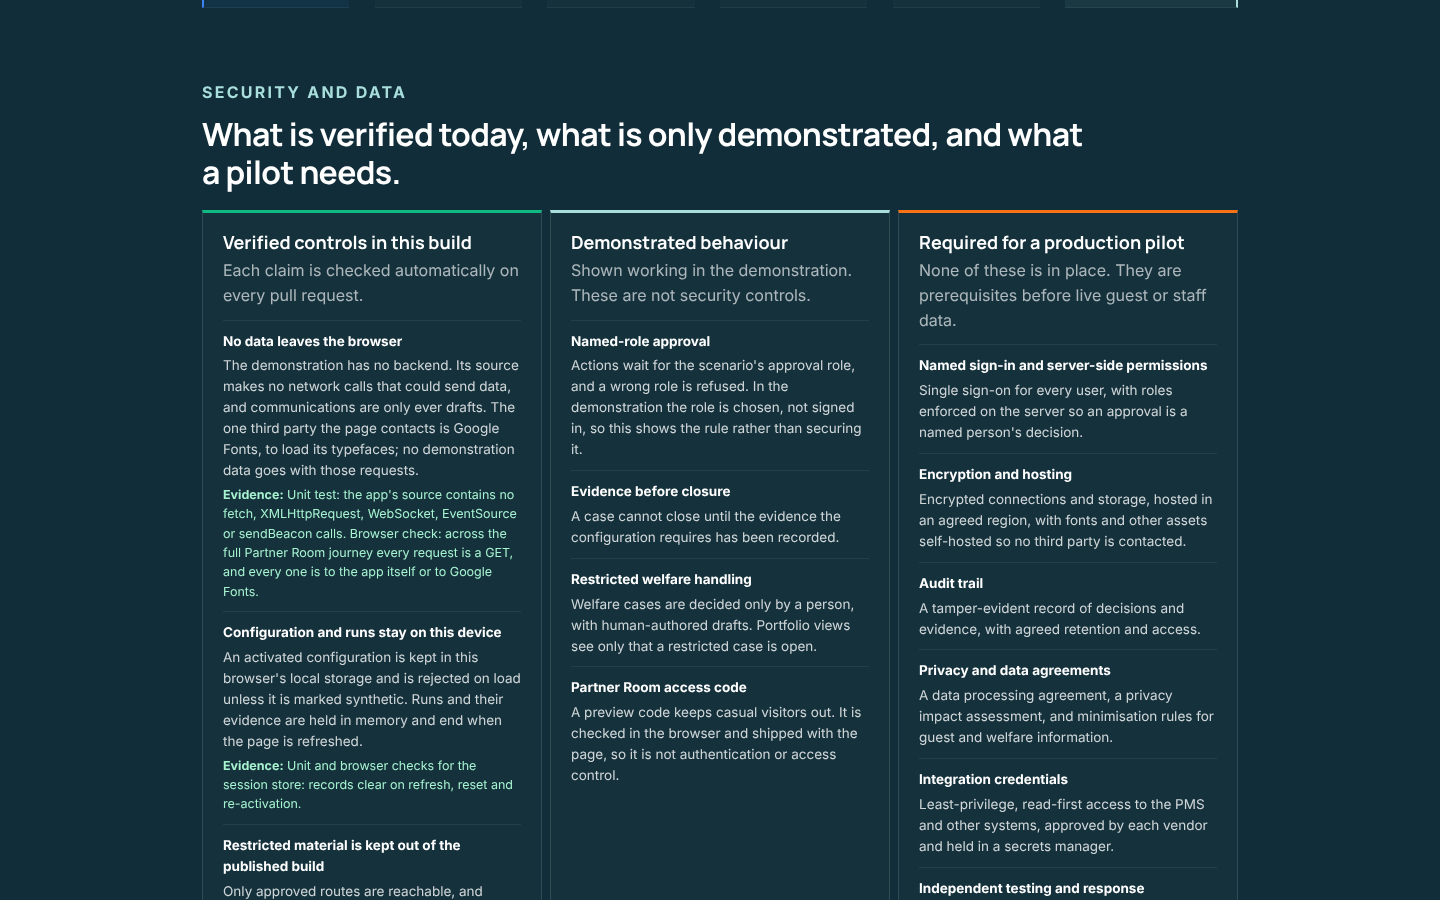
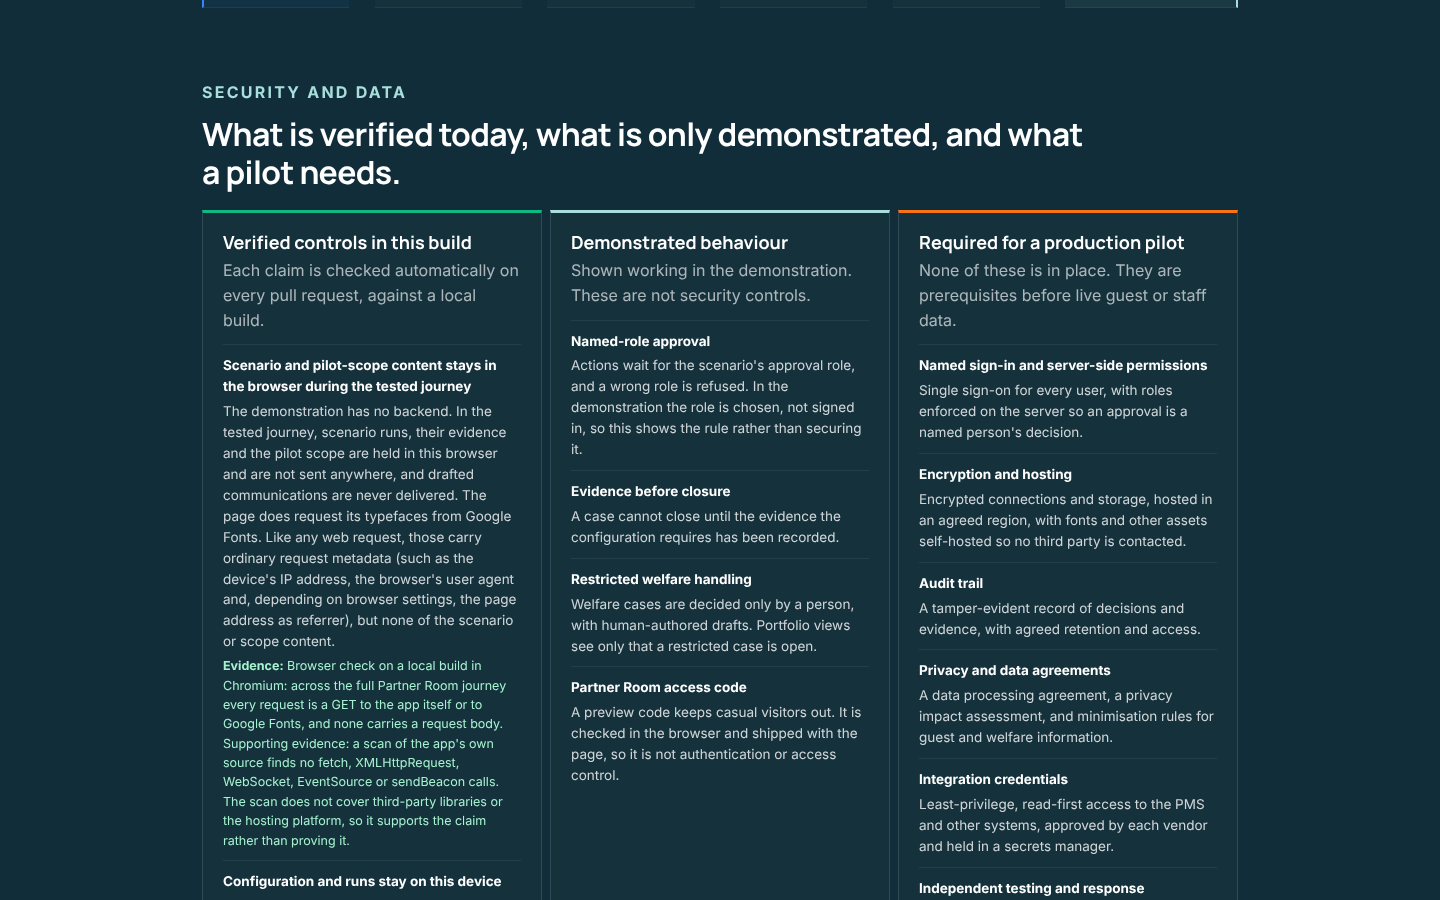
Scope the security claims to the tested journey and the local build
- Replace "No data leaves the browser" with "Scenario and pilot-scope
  content stays in the browser during the tested journey".
- Explain that Google Fonts requests carry ordinary request metadata (IP
  address, user agent, possibly the referring page) but no scenario or
  scope content; stop calling Google Fonts the only third party.
- Present the source scan as supporting evidence that does not cover
  third-party libraries or hosting.
- Add a "Local build, not the deployed site" note: the deployed Replit site
  has not been checked, and its third parties must be verified there.

Tests: unit test requires the scoped wording and caveats; the journey
browser check also asserts no request carries a body and that the page
separates local findings from the deployed site.

Claude-Session: https://claude.ai/code/session_01F5TpjzTwv9w8J8EexRookR

Changed region(s): [[0.1562, 0.3422, 0.375, 1.0], [0.25, 0.3111, 0.3438, 0.3422]]

diff --git a/artifacts/welbx/src/data/securityPosture.ts b/artifacts/welbx/src/data/securityPosture.ts
@@ -17,9 +17,9 @@ export interface SecurityItem {
 
 export const VERIFIED_CONTROLS: SecurityItem[] = [
   {
-    title: "No data leaves the browser",
-    detail: "The demonstration has no backend. Its source makes no network calls that could send data, and communications are only ever drafts. The one third party the page contacts is Google Fonts, to load its typefaces; no demonstration data goes with those requests.",
-    evidence: "Unit test: the app's source contains no fetch, XMLHttpRequest, WebSocket, EventSource or sendBeacon calls. Browser check: across the full Partner Room journey every request is a GET, and every one is to the app itself or to Google Fonts.",
+    title: "Scenario and pilot-scope content stays in the browser during the tested journey",
+    detail: "The demonstration has no backend. In the tested journey, scenario runs, their evidence and the pilot scope are held in this browser and are not sent anywhere, and drafted communications are never delivered. The page does request its typefaces from Google Fonts. Like any web request, those carry ordinary request metadata (such as the device's IP address, the browser's user agent and, depending on browser settings, the page address as referrer), but none of the scenario or scope content.",
+    evidence: "Browser check on a local build in Chromium: across the full Partner Room journey every request is a GET to the app itself or to Google Fonts, and none carries a request body. Supporting evidence: a scan of the app's own source finds no fetch, XMLHttpRequest, WebSocket, EventSource or sendBeacon calls. The scan does not cover third-party libraries or the hosting platform, so it supports the claim rather than proving it.",
   },
   {
     title: "Configuration and runs stay on this device",
@@ -60,6 +60,10 @@ export const PILOT_SECURITY_REQUIREMENTS: SecurityItem[] = [
   { title: "Integration credentials", detail: "Least-privilege, read-first access to the PMS and other systems, approved by each vendor and held in a secrets manager." },
   { title: "Independent testing and response", detail: "A penetration test before live data, an incident response plan with named contacts, backups and regular access reviews." },
 ];
+
+/** Where these findings come from, and what has not been checked. */
+export const VERIFICATION_SCOPE =
+  "These findings come from automated checks on a local build. The deployed Replit site has not been checked from this environment, so its hosting may add requests of its own (for example platform scripts or analytics). Third parties on the deployed site, including whether Google Fonts is the only one, must be verified there before any of these claims are repeated about it.";
 
 export const CERTIFICATION_STATEMENT =
   "This demonstration makes no certification claim (for example ISO 27001 or SOC 2), and none is evidenced here. Any certification the partner requires is a pilot prerequisite to agree.";

diff --git a/artifacts/welbx/src/__tests__/ux-phase4.test.ts b/artifacts/welbx/src/__tests__/ux-phase4.test.ts
@@ -5,7 +5,7 @@ import {
   PORTFOLIO_ACTORS, PORTFOLIO_EXCEPTIONS, PORTFOLIO_PROPERTIES, decideException, newExceptionRecord, pendingApprovers,
 } from "@/lib/portfolioCoordination";
 import {
-  CERTIFICATION_STATEMENT, DEMONSTRATED_BEHAVIOUR, PILOT_SECURITY_REQUIREMENTS, VERIFIED_CONTROLS,
+  CERTIFICATION_STATEMENT, DEMONSTRATED_BEHAVIOUR, PILOT_SECURITY_REQUIREMENTS, VERIFICATION_SCOPE, VERIFIED_CONTROLS,
 } from "@/data/securityPosture";
 import {
   ENQUIRY_ADDRESS, MAILTO_BODY_LIMIT, defaultPilotScope, integrationPrerequisites, pilotCommercialAssumptions,
@@ -72,7 +72,20 @@ describe("Security and data claims", () => {
     expect(claims).not.toMatch(/\b(certified|compliant|ISO ?27001|SOC ?2|GDPR[- ]compliant|PCI)\b/i);
   });
 
-  it("keeps the 'no data leaves the browser' claim true: the app's source makes no network calls", () => {
+  it("scopes the data claim to the tested journey and names what the evidence does not cover", () => {
+    const all = [...VERIFIED_CONTROLS, ...DEMONSTRATED_BEHAVIOUR, ...PILOT_SECURITY_REQUIREMENTS].map(i => `${i.title} ${i.detail} ${i.evidence ?? ""}`).join(" ");
+    expect(all).not.toMatch(/no data leaves|only third party/i);
+    const content = VERIFIED_CONTROLS[0];
+    expect(content.title).toMatch(/Scenario and pilot-scope content stays in the browser during the tested journey/);
+    expect(content.detail).toMatch(/ordinary request metadata/);
+    expect(content.evidence).toMatch(/local build/);
+    expect(content.evidence).toMatch(/Supporting evidence: a scan of the app's own source/);
+    expect(content.evidence).toMatch(/does not cover third-party libraries or the hosting platform/);
+    expect(VERIFICATION_SCOPE).toMatch(/deployed Replit site has not been checked/);
+    expect(VERIFICATION_SCOPE).toMatch(/including whether Google Fonts is the only one/);
+  });
+
+  it("supporting evidence: the app's own source makes no network calls", () => {
     const sources = (dir: string): string[] => readdirSync(dir).flatMap(name => {
       const full = join(dir, name);
       if (statSync(full).isDirectory()) return name === "__tests__" ? [] : sources(full);

diff --git a/artifacts/welbx/src/components/partner-room/SecurityAndData.tsx b/artifacts/welbx/src/components/partner-room/SecurityAndData.tsx
@@ -1,5 +1,5 @@
 import {
-  CERTIFICATION_STATEMENT, DEMONSTRATED_BEHAVIOUR, PILOT_SECURITY_REQUIREMENTS, VERIFIED_CONTROLS, type SecurityItem,
+  CERTIFICATION_STATEMENT, DEMONSTRATED_BEHAVIOUR, PILOT_SECURITY_REQUIREMENTS, VERIFICATION_SCOPE, VERIFIED_CONTROLS, type SecurityItem,
 } from "@/data/securityPosture";
 import { usePartnerRoomNavigate } from "@/components/PartnerRoomLayout";
 import "./security-and-data.css";
@@ -29,10 +29,11 @@ export function SecurityAndData() {
       <p className="sd-eyebrow">Security and data</p>
       <h2 id="security-data-title">What is verified today, what is only demonstrated, and what a pilot needs.</h2>
       <div className="sd-groups">
-        <Group id="verified" tone="verified" title="Verified controls in this build" note="Each claim is checked automatically on every pull request." items={VERIFIED_CONTROLS} />
+        <Group id="verified" tone="verified" title="Verified controls in this build" note="Each claim is checked automatically on every pull request, against a local build." items={VERIFIED_CONTROLS} />
         <Group id="demonstrated" tone="demonstrated" title="Demonstrated behaviour" note="Shown working in the demonstration. These are not security controls." items={DEMONSTRATED_BEHAVIOUR} />
         <Group id="required" tone="required" title="Required for a production pilot" note="None of these is in place. They are prerequisites before live guest or staff data." items={PILOT_SECURITY_REQUIREMENTS} />
       </div>
+      <p className="sd-scope" data-testid="security-scope"><strong>Local build, not the deployed site.</strong> {VERIFICATION_SCOPE}</p>
       <p className="sd-certification" data-testid="security-certification">{CERTIFICATION_STATEMENT}</p>
       <a href="/partner-room/pilot-model#pilot-scope" className="sd-next" onClick={event => { event.preventDefault(); navigateTo("/partner-room/pilot-model#pilot-scope"); }}>
         Add integration and security prerequisites to a pilot scope →

diff --git a/artifacts/welbx/src/components/partner-room/security-and-data.css b/artifacts/welbx/src/components/partner-room/security-and-data.css
@@ -15,3 +15,4 @@
 .sd-certification { margin: 14px 0 16px; padding: 12px 14px; font-size: 13.5px; line-height: 1.6; color: rgba(255, 255, 255, 0.85); border-left: 3px solid #f97316; background: rgba(249, 115, 22, 0.06); max-width: 900px; }
 .sd-next { display: inline-flex; align-items: center; min-height: 48px; padding: 0 22px; font-size: 14px; font-weight: 800; color: #102d39; background: #a8dedb; text-decoration: none; }
 .sd-next:focus-visible { outline: 3px solid #ed9b66; outline-offset: 3px; }
+.sd-scope { margin: 14px 0 0; padding: 12px 14px; font-size: 13.5px; line-height: 1.6; color: rgba(255, 255, 255, 0.85); border-left: 3px solid #a8dedb; background: rgba(168, 222, 219, 0.06); max-width: 900px; }
